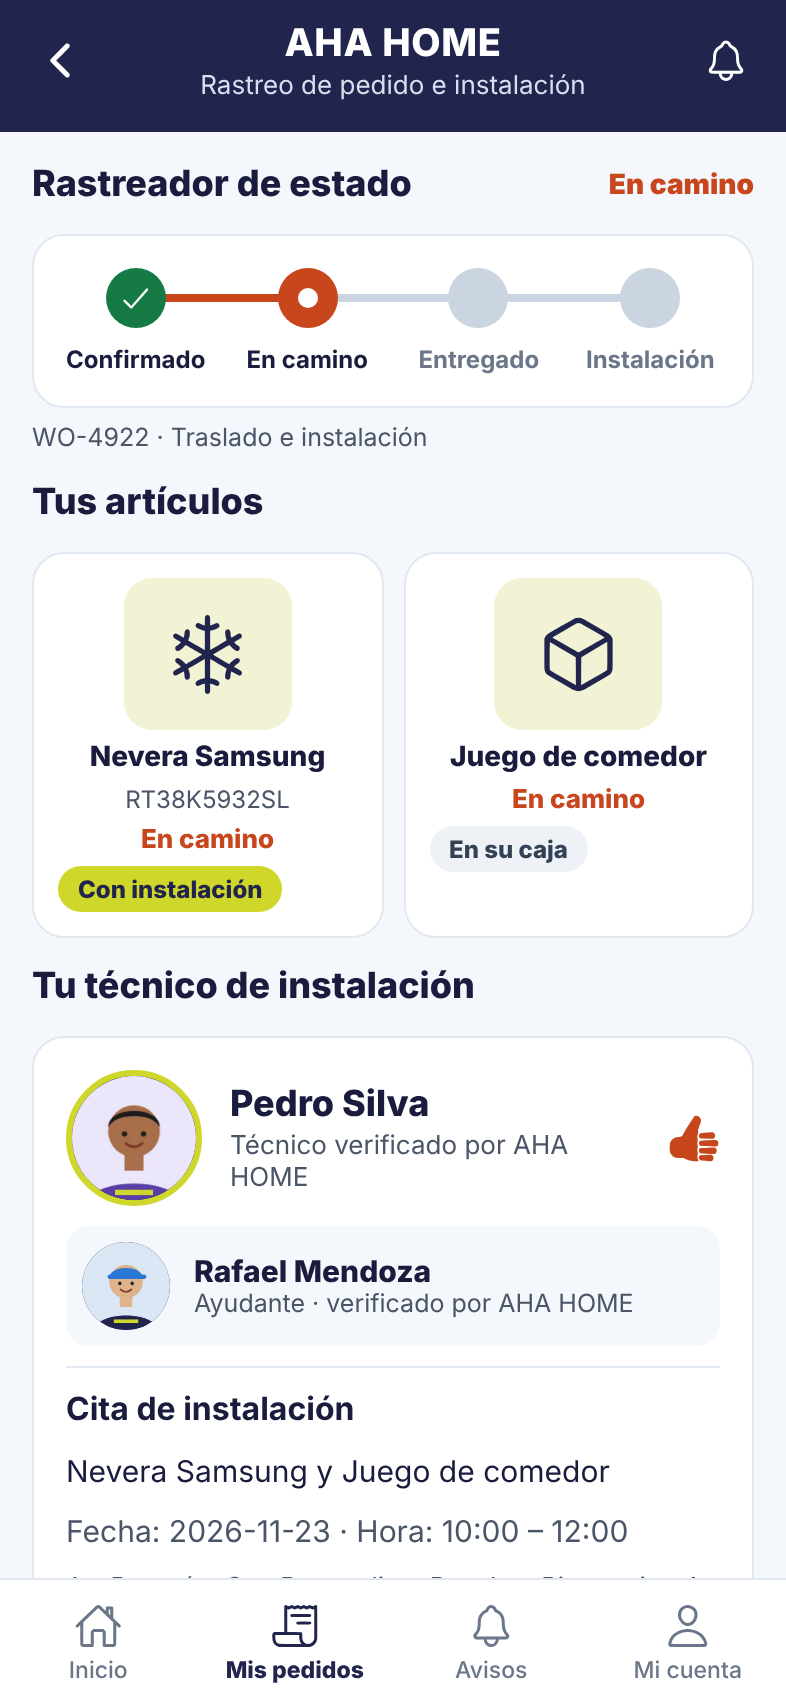
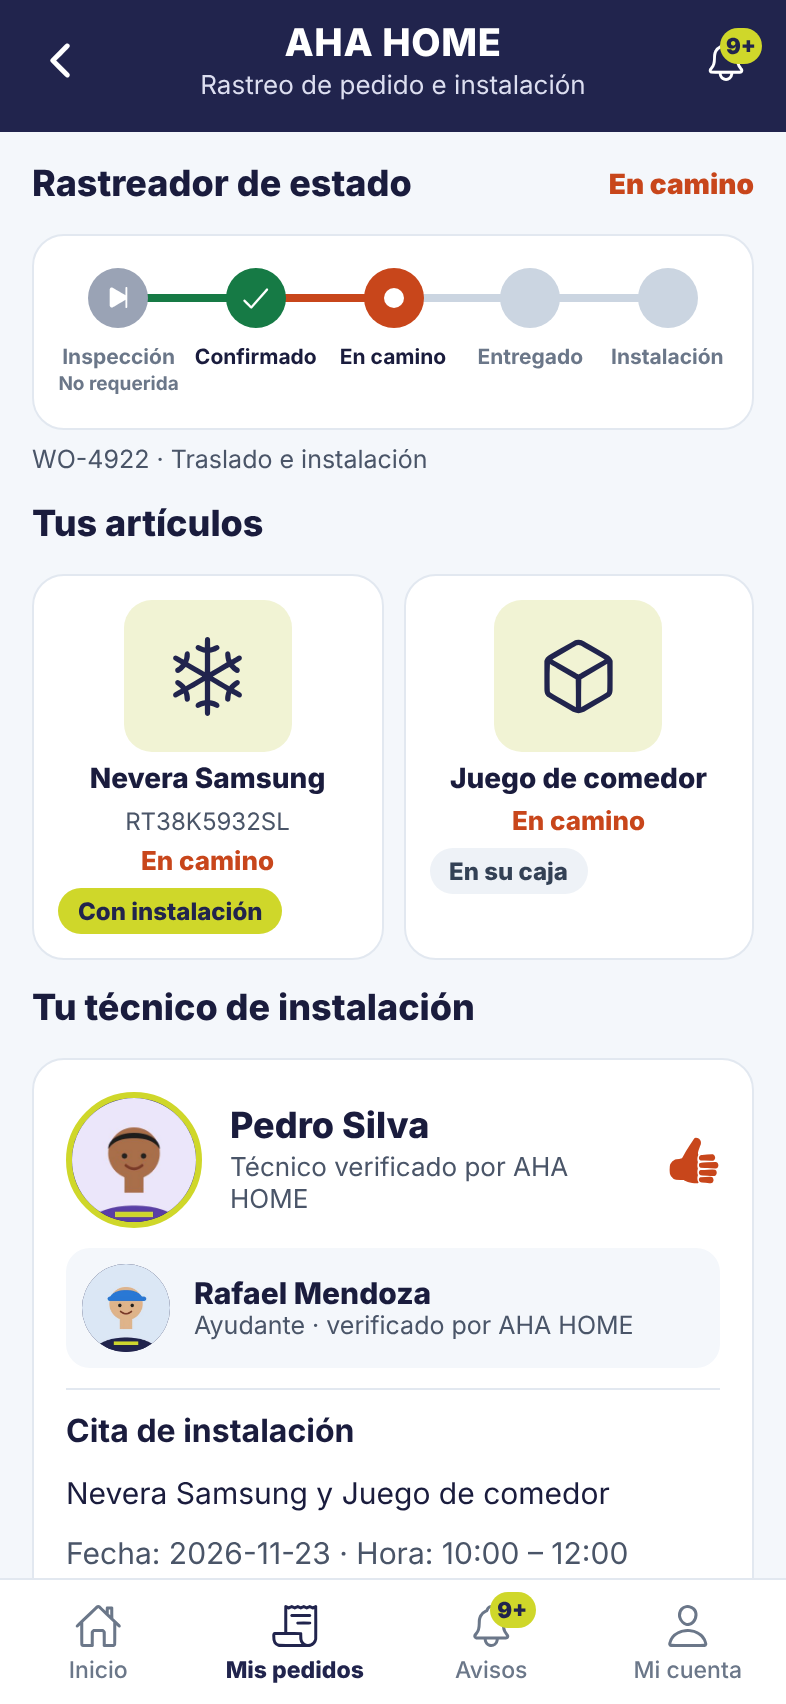
Rastreador: el paso Inspección aparece siempre antes de Confirmado (No requerida si no se pidió)
Claude-Session: https://claude.ai/code/session_014SMz9zz3oS1yaniiLYwkLp

diff --git a/mobile/src/screens/cliente/Rastreo.tsx b/mobile/src/screens/cliente/Rastreo.tsx
@@ -15,10 +15,10 @@ const ICONO: Record<string, React.ComponentProps<typeof Ionicons>["name"]> = {
   cocina: "flame-outline", televisor: "tv-outline", otro: "cube-outline",
 };
 
-type Fase = { texto: string; hecha: boolean; actual: boolean; pausa?: boolean };
+type Fase = { texto: string; hecha: boolean; actual: boolean; pausa?: boolean; omitida?: boolean };
 
-/** Las fases que ve el cliente según el tipo de servicio. Si pidió inspección, va primero
- *  «Inspección» (el servicio queda en pausa hasta aprobar y pagar el presupuesto); si no, se salta directo a «Confirmado». */
+/** Las fases que ve el cliente según el tipo de servicio. «Inspección» siempre aparece antes de «Confirmado»:
+ *  si la pidió, el servicio queda en pausa hasta aprobar y pagar el presupuesto; si no, se muestra como «No requerida» (paso saltado). */
 function fases(o: Orden): Fase[] {
   const orden = ["solicitud_enviada", "tecnico_asignado", "cita_confirmada", "en_ruta", "en_progreso", "completado"];
   const i = orden.indexOf(o.estado);
@@ -26,11 +26,14 @@ function fases(o: Orden): Fase[] {
     : o.tipo_servicio === "instalacion" ? ["Confirmado", "En camino", "Instalación"]
     : ["Confirmado", "En camino", "Entregado", "Instalación"];
   const conInspeccion = o.inspeccion.requerida;
-  const nombres = conInspeccion ? ["Inspección", ...base] : base;
+  const nombres = ["Inspección", ...base];
   // cuántas fases van hechas según el estado del servidor
   let hechas = i >= 5 ? base.length : i === 4 ? base.length - 1 : i === 3 ? 1 : i === 2 ? 1 : 0;
-  if (conInspeccion) hechas = o.pausa?.activa ? 0 : hechas + 1;
-  return nombres.map((texto, k) => ({ texto, hecha: k < hechas, actual: k === hechas, pausa: conInspeccion && k === 0 && !!o.pausa?.activa }));
+  hechas = conInspeccion && o.pausa?.activa ? 0 : hechas + 1;
+  return nombres.map((texto, k) => {
+    if (k === 0 && !conInspeccion) return { texto, hecha: false, actual: false, omitida: true };
+    return { texto, hecha: k < hechas, actual: k === hechas, pausa: conInspeccion && k === 0 && !!o.pausa?.activa };
+  });
 }
 
 /** Rastreador a colores: verde con ✓ lo terminado, naranja lo que está pasando ahora, gris lo que falta. */
@@ -41,17 +44,20 @@ function Rastreador({ f }: { f: Fase[] }) {
         accessibilityLabel={`Estado: ${f.find((x) => x.actual)?.texto ?? "completado"}`}>
         {f.map((x, k) => {
           const linea = x.hecha ? C.ok : x.actual ? C.naranja : C.borde;
+          const color = x.hecha ? C.ok : x.actual ? C.naranja : x.omitida ? "#9AA3B5" : C.borde;
           return (
             <View key={x.texto} style={{ flex: 1, alignItems: "center", gap: 8, zIndex: f.length - k }}>
               {k > 0 ? <View style={{ position: "absolute", top: 13, right: "50%", width: "100%", height: 4, backgroundColor: linea }} /> : null}
               <View style={{ width: 30, height: 30, borderRadius: 15, alignItems: "center", justifyContent: "center", zIndex: 1,
-                backgroundColor: x.hecha ? C.ok : x.actual ? C.naranja : C.borde }}>
+                backgroundColor: color }}>
                 {x.hecha ? <Ionicons name="checkmark" size={18} color={C.blanco} />
+                  : x.omitida ? <Ionicons name="play-skip-forward" size={14} color={C.blanco} />
                   : x.pausa ? <Ionicons name="pause" size={15} color={C.blanco} />
                   : x.actual ? <View style={{ width: 10, height: 10, borderRadius: 5, backgroundColor: C.blanco }} /> : null}
               </View>
               <Text style={{ fontSize: f.length > 4 ? 10.5 : 12, fontWeight: "700", color: x.hecha || x.actual ? C.texto : "#6B7789",
                 textAlign: "center", paddingHorizontal: 1 }}>{x.texto}</Text>
+              {x.omitida ? <Text style={{ marginTop: -6, fontSize: 9.5, fontWeight: "700", color: "#6B7789", textAlign: "center" }}>No requerida</Text> : null}
             </View>
           );
         })}
